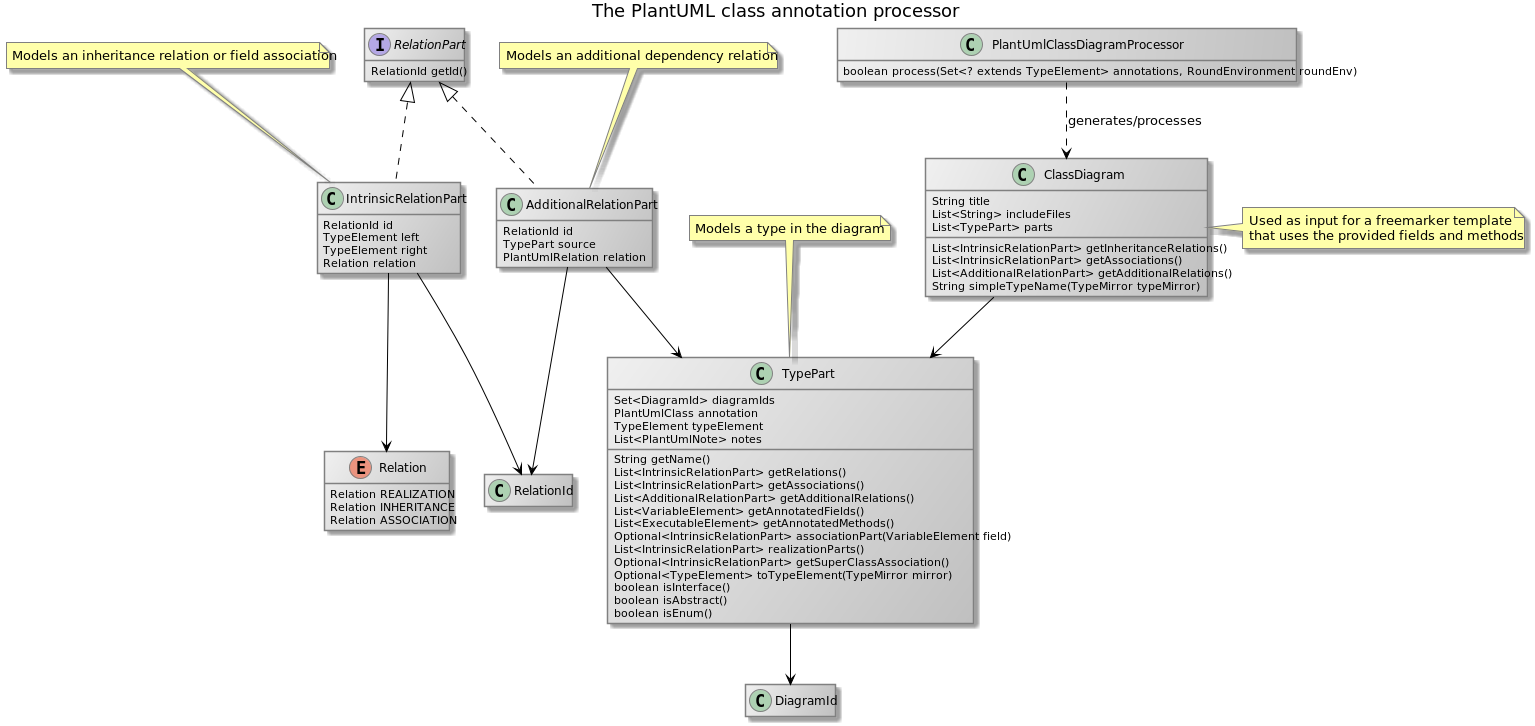
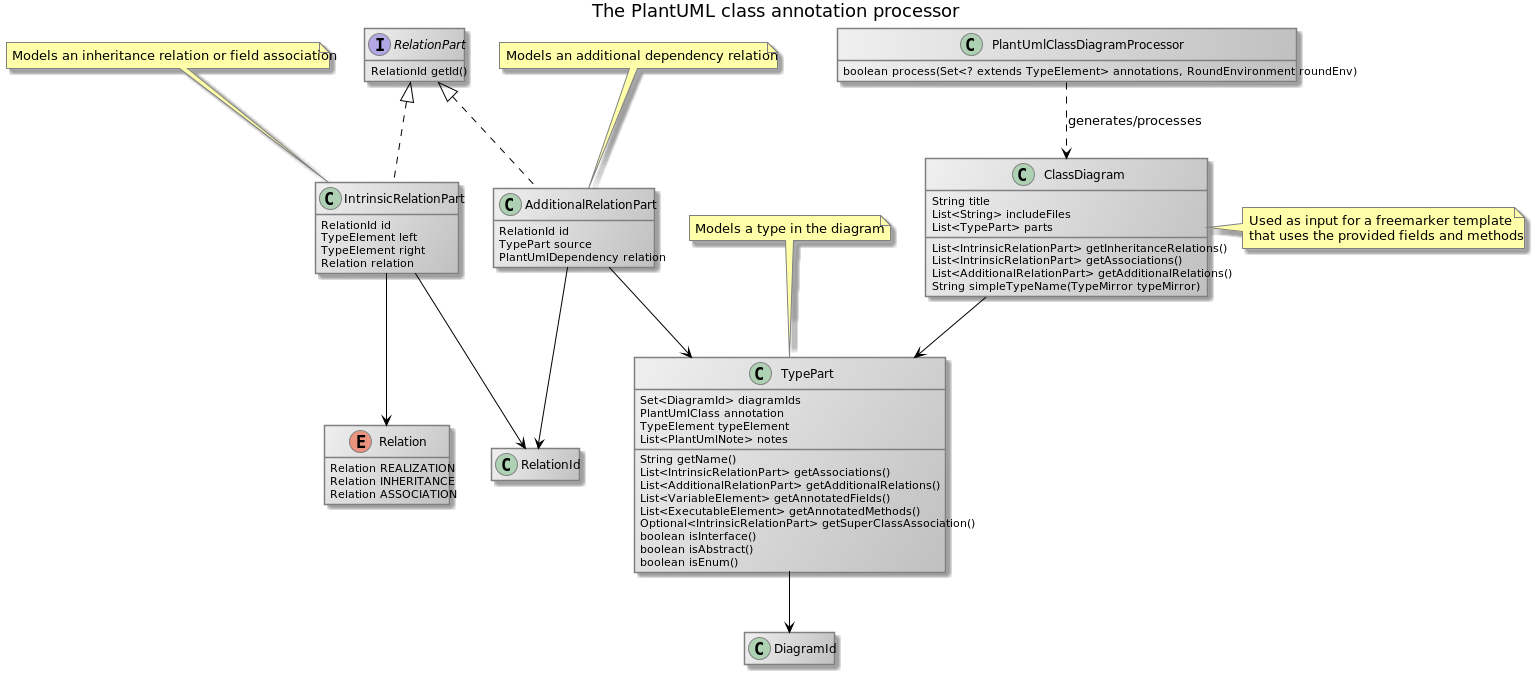
Continue blog post

Changed region(s): [[0.0, 0.0, 1.0, 0.8724], [0.4593, 0.9347, 0.5511, 0.997]]

diff --git a/annotation-processors/src/main/java/com/comsysto/livingdoc/annotation/processors/plantuml/model/TypePart.java b/annotation-processors/src/main/java/com/comsysto/livingdoc/annotation/processors/plantuml/model/TypePart.java
@@ -9,8 +9,8 @@ import com.comsysto.livingdoc.annotation.plantuml.PlantUmlClass;
 import com.comsysto.livingdoc.annotation.plantuml.PlantUmlExecutable;
 import com.comsysto.livingdoc.annotation.plantuml.PlantUmlField;
 import com.comsysto.livingdoc.annotation.plantuml.PlantUmlNote;
-import com.comsysto.livingdoc.annotation.plantuml.PlantUmlRelation;
-import com.comsysto.livingdoc.annotation.plantuml.PlantUmlRelations;
+import com.comsysto.livingdoc.annotation.plantuml.PlantUmlDependency;
+import com.comsysto.livingdoc.annotation.plantuml.PlantUmlDependencies;
 import com.comsysto.livingdoc.annotation.processors.plantuml.Optionals;
 import com.comsysto.livingdoc.annotation.processors.plantuml.PlantUmlClassDiagramProcessor;
 import com.comsysto.livingdoc.annotation.processors.plantuml.model.IntrinsicRelationPart.Relation;
@@ -74,7 +74,6 @@ public class TypePart {
      *
      * @return all relations.
      */
-    @PlantUmlExecutable
     public List<IntrinsicRelationPart> getRelations() {
         return concat(
             concat(
@@ -107,11 +106,11 @@ public class TypePart {
             .collect(toList());
     }
 
-    private List<PlantUmlRelation> getPlantUmlRelationAnnotations() {
-        return Optional.ofNullable(typeElement.getAnnotation(PlantUmlRelations.class))
-            .map(PlantUmlRelations::value)
+    private List<PlantUmlDependency> getPlantUmlRelationAnnotations() {
+        return Optional.ofNullable(typeElement.getAnnotation(PlantUmlDependencies.class))
+            .map(PlantUmlDependencies::value)
             .map(Arrays::asList)
-            .orElseGet(() -> Optional.ofNullable(typeElement.getAnnotation(PlantUmlRelation.class))
+            .orElseGet(() -> Optional.ofNullable(typeElement.getAnnotation(PlantUmlDependency.class))
                 .map(Collections::singletonList)
                 .orElse(Collections.emptyList()));
     }
@@ -151,7 +150,6 @@ public class TypePart {
      *
      * @return the association relation part.
      */
-    @PlantUmlExecutable
     public Optional<IntrinsicRelationPart> associationPart(final VariableElement field) {
         final TypeMirror typeMirror = field.asType();
         final List<? extends TypeMirror> typeArguments = typeMirror.getKind() == TypeKind.DECLARED
@@ -189,7 +187,6 @@ public class TypePart {
      *
      * @return the realization parts.
      */
-    @PlantUmlExecutable
     public List<IntrinsicRelationPart> realizationParts() {
         return typeElement.getInterfaces().stream()
             .map(TypePart::toTypeElement)
@@ -230,7 +227,6 @@ public class TypePart {
      * @return the element or an empty optional if the mirror represents a
      * primitive.
      */
-    @PlantUmlExecutable
     public static Optional<TypeElement> toTypeElement(TypeMirror mirror) {
         return mirror instanceof DeclaredType && !mirror.getKind().isPrimitive()
                ? Optional.of((TypeElement) ((DeclaredType) mirror).asElement())

diff --git a/annotation-processors/src/main/java/com/comsysto/livingdoc/annotation/processors/plantuml/PlantUmlClassDiagramProcessor.java b/annotation-processors/src/main/java/com/comsysto/livingdoc/annotation/processors/plantuml/PlantUmlClassDiagramProcessor.java
@@ -14,7 +14,7 @@ import com.comsysto.livingdoc.annotation.plantuml.PlantUmlClass;
 import com.comsysto.livingdoc.annotation.plantuml.PlantUmlExecutable;
 import com.comsysto.livingdoc.annotation.plantuml.PlantUmlNote;
 import com.comsysto.livingdoc.annotation.plantuml.PlantUmlNotes;
-import com.comsysto.livingdoc.annotation.plantuml.PlantUmlRelation;
+import com.comsysto.livingdoc.annotation.plantuml.PlantUmlDependency;
 import com.comsysto.livingdoc.annotation.processors.plantuml.model.ClassDiagram;
 import com.comsysto.livingdoc.annotation.processors.plantuml.model.DiagramId;
 import com.comsysto.livingdoc.annotation.processors.plantuml.model.TypePart;
@@ -59,7 +59,7 @@ import javax.lang.model.element.TypeElement;
 @AutoService(Processor.class)
 @Slf4j
 @PlantUmlClass(diagramIds = PlantUmlClassDiagramProcessor.DIAGRAM_ID)
-@PlantUmlRelation(target = "ClassDiagram", description = "generates/processes")
+@PlantUmlDependency(target = "ClassDiagram", description = "generates/processes")
 public class PlantUmlClassDiagramProcessor extends AbstractProcessor {
     protected static final String KEY_SETTINGS_DIR = "pumlgen.settings.dir";
     protected static final String DEF_SETTINGS_DIR = ".";
@@ -71,7 +71,8 @@ public class PlantUmlClassDiagramProcessor extends AbstractProcessor {
     private final Configuration freemarkerConfiguration = new Configuration(Configuration.VERSION_2_3_23);
 
     private String settingsDir;
-    private String outDir;
+    private String outDir;                 
+        
 
     public PlantUmlClassDiagramProcessor() {
         freemarkerConfiguration.setTemplateLoader(new ClassTemplateLoader(this.getClass(), ""));

diff --git a/annotation-processors/src/main/java/com/comsysto/livingdoc/annotation/processors/plantuml/model/AdditionalRelationPart.java b/annotation-processors/src/main/java/com/comsysto/livingdoc/annotation/processors/plantuml/model/AdditionalRelationPart.java
@@ -3,7 +3,7 @@ package com.comsysto.livingdoc.annotation.processors.plantuml.model;
 import com.comsysto.livingdoc.annotation.plantuml.PlantUmlClass;
 import com.comsysto.livingdoc.annotation.plantuml.PlantUmlField;
 import com.comsysto.livingdoc.annotation.plantuml.PlantUmlNote;
-import com.comsysto.livingdoc.annotation.plantuml.PlantUmlRelation;
+import com.comsysto.livingdoc.annotation.plantuml.PlantUmlDependency;
 import com.comsysto.livingdoc.annotation.processors.plantuml.PlantUmlClassDiagramProcessor;
 import lombok.Value;
 
@@ -19,5 +19,5 @@ public class AdditionalRelationPart implements RelationPart {
     TypePart source;
 
     @PlantUmlField
-    PlantUmlRelation relation;
+    PlantUmlDependency relation;
 }

diff --git a/annotation-processors/src/test/java/com/comsysto/livingdoc/example/GroundVehicle.java b/annotation-processors/src/test/java/com/comsysto/livingdoc/example/GroundVehicle.java
@@ -2,8 +2,12 @@ package com.comsysto.livingdoc.example;
 
 import com.comsysto.livingdoc.annotation.plantuml.PlantUmlClass;
 import com.comsysto.livingdoc.annotation.plantuml.PlantUmlField;
+import com.comsysto.livingdoc.annotation.plantuml.PlantUmlNote;
+import com.comsysto.livingdoc.annotation.plantuml.PlantUmlNote.Position;
 
 @PlantUmlClass(diagramIds = { "package", "ground-vehicles" })
+@PlantUmlNote(body = "A vehicle that drives on the ground", position = Position.TOP)
+@PlantUmlNote(body = "Multiple notes may be attached to a type", position = Position.RIGHT)
 public abstract class GroundVehicle extends Vehicle {
 
     @PlantUmlField

diff --git a/annotations/src/main/java/com/comsysto/livingdoc/annotation/plantuml/PlantUmlDependencies.java b/annotations/src/main/java/com/comsysto/livingdoc/annotation/plantuml/PlantUmlDependencies.java
@@ -5,8 +5,8 @@ import java.lang.annotation.Retention;
 import java.lang.annotation.RetentionPolicy;
 import java.lang.annotation.Target;
 
-@Retention(RetentionPolicy.RUNTIME)
+@Retention(RetentionPolicy.SOURCE)
 @Target(ElementType.TYPE)
-public @interface PlantUmlRelations {
-    PlantUmlRelation[] value() default {};
+public @interface PlantUmlDependencies {
+    PlantUmlDependency[] value() default {};
 }

diff --git a/annotations/src/main/java/com/comsysto/livingdoc/annotation/plantuml/PlantUmlNote.java b/annotations/src/main/java/com/comsysto/livingdoc/annotation/plantuml/PlantUmlNote.java
@@ -10,7 +10,7 @@ import java.lang.annotation.Target;
  * Annotation that models a note to be included in a class diagram. Multiple
  * notes may be attached to the same type.
  */
-@Retention(RetentionPolicy.RUNTIME)
+@Retention(RetentionPolicy.SOURCE)
 @Target({ ElementType.TYPE, ElementType.FIELD, ElementType.METHOD })
 @Repeatable(PlantUmlNotes.class)
 public @interface PlantUmlNote {

diff --git a/annotations/src/main/java/com/comsysto/livingdoc/annotation/plantuml/PlantUmlDependency.java b/annotations/src/main/java/com/comsysto/livingdoc/annotation/plantuml/PlantUmlDependency.java
@@ -5,9 +5,9 @@ import java.lang.annotation.Retention;
 import java.lang.annotation.RetentionPolicy;
 import java.lang.annotation.Target;
 
-@Retention(RetentionPolicy.RUNTIME)
+@Retention(RetentionPolicy.SOURCE)
 @Target(ElementType.TYPE)
-public @interface PlantUmlRelation {
+public @interface PlantUmlDependency {
     String target();
     String description() default "";
 }

diff --git a/annotations/src/main/java/com/comsysto/livingdoc/annotation/plantuml/PlantUmlField.java b/annotations/src/main/java/com/comsysto/livingdoc/annotation/plantuml/PlantUmlField.java
@@ -10,7 +10,7 @@ import java.lang.annotation.Target;
  * {@link PlantUmlClass}. This annotation causes the field to be included in
  * the class body and/or as an association to the corresponding type.
  */
-@Retention(RetentionPolicy.RUNTIME)
+@Retention(RetentionPolicy.SOURCE)
 @Target({ElementType.FIELD, ElementType.METHOD})
 public @interface PlantUmlField {
 

diff --git a/annotations/src/main/java/com/comsysto/livingdoc/annotation/plantuml/PlantUmlClass.java b/annotations/src/main/java/com/comsysto/livingdoc/annotation/plantuml/PlantUmlClass.java
@@ -9,7 +9,7 @@ import java.lang.annotation.Target;
  * Annotation to be attached to a type that should be rendered as part of one or
  * more <a href="http://plantuml.com/class-diagram">PlantUML class diagram</a>s.
  */
-@Retention(RetentionPolicy.RUNTIME)
+@Retention(RetentionPolicy.SOURCE)
 @Target({ ElementType.TYPE })
 public @interface PlantUmlClass {
 

diff --git a/annotation-processors/src/test/java/com/comsysto/livingdoc/example/Airplane.java b/annotation-processors/src/test/java/com/comsysto/livingdoc/example/Airplane.java
@@ -8,7 +8,7 @@ import com.comsysto.livingdoc.annotation.plantuml.PlantUmlNote;
 
 @PlantUmlClass
 @PlantUmlNote(
-    body = "This models an airplane, a //flying// \nvehicle that is **very** fast.",
+    body = "This models an airplane, a //flying// \nvehicle that is **very** fast",
     position = BOTTOM)
 public class Airplane extends FlyingVehicle {
 

diff --git a/annotations/src/main/java/com/comsysto/livingdoc/annotation/plantuml/PlantUmlNotes.java b/annotations/src/main/java/com/comsysto/livingdoc/annotation/plantuml/PlantUmlNotes.java
@@ -5,7 +5,7 @@ import java.lang.annotation.Retention;
 import java.lang.annotation.RetentionPolicy;
 import java.lang.annotation.Target;
 
-@Retention(RetentionPolicy.RUNTIME)
+@Retention(RetentionPolicy.SOURCE)
 @Target(ElementType.TYPE)
 public @interface PlantUmlNotes {
     PlantUmlNote[] value() default {};

diff --git a/annotations/src/main/java/com/comsysto/livingdoc/annotation/plantuml/PlantUmlExecutable.java b/annotations/src/main/java/com/comsysto/livingdoc/annotation/plantuml/PlantUmlExecutable.java
@@ -6,7 +6,7 @@ import java.lang.annotation.RetentionPolicy;
 import java.lang.annotation.Target;
 
 
-@Retention(RetentionPolicy.RUNTIME)
+@Retention(RetentionPolicy.SOURCE)
 @Target({ ElementType.METHOD, ElementType.CONSTRUCTOR })
 public @interface PlantUmlExecutable {
 }
